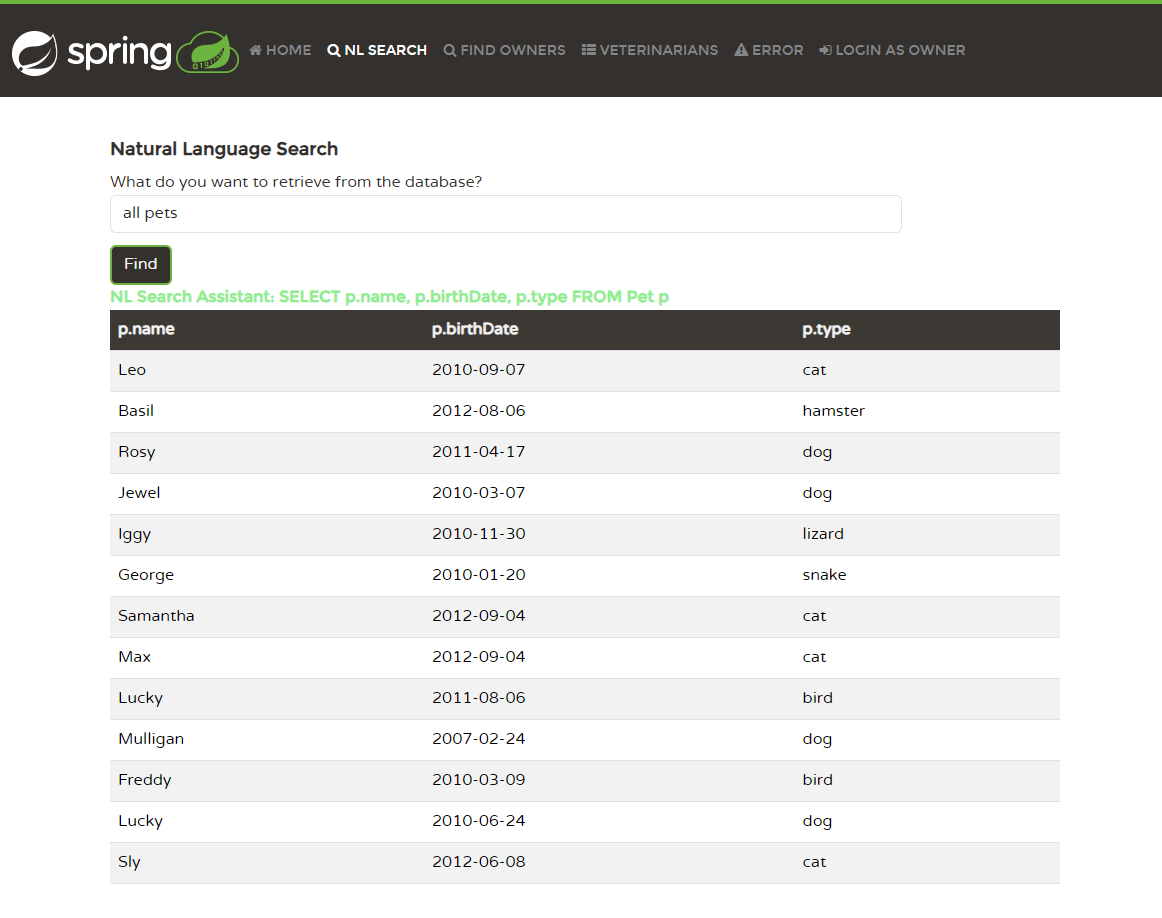
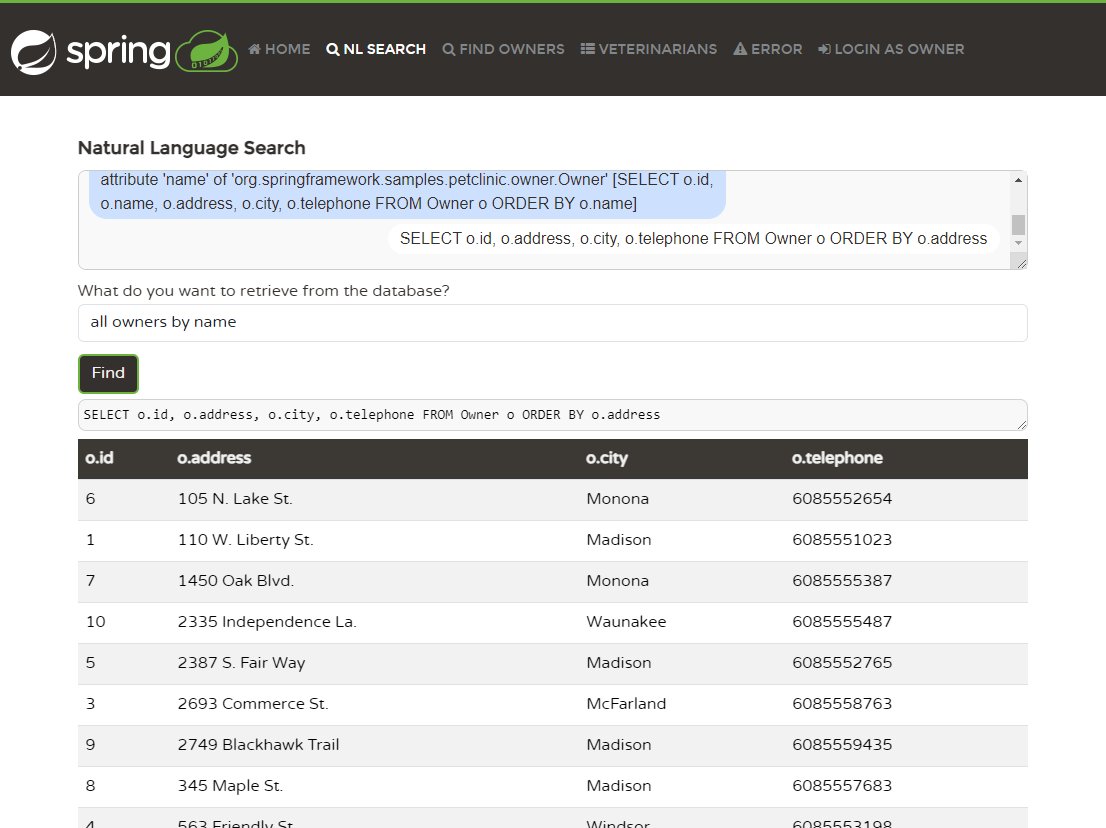
add conversation history

diff --git a/src/main/resources/templates/nl.search/nlSearchList.html b/src/main/resources/templates/nl.search/nlSearchList.html
@@ -4,15 +4,22 @@
 
 <body>
 <h2>Natural Language Search</h2>
+
 <form th:object="${nlSearch}" th:action="@{/nl-search}" method="get"
       class="form-horizontal" id="nl-search-form">
+  <div class="chat-window" id="chatWindow">
+    <th:block th:each="line, iterStat : ${nlSearch.conversationHistory}">
+      <div th:class="${iterStat.odd} ? 'chat-message user-message' : 'chat-message ai-message'">
+        [[${line}]]
+      </div>
+    </th:block>
+  </div>
   <div class="form-group">
     <div class="control-group" id="queryGroup">
       <label class="col-sm-6 control-label">What do you want to retrieve from the database? </label>
-      <div class="col-sm-10">
+      <div>
         <input class="form-control" th:field="*{userQuery}" size="30"
-               maxlength="80" /> <span class="help-inline"><div
-        th:if="${#fields.hasAnyErrors()}">
+               maxlength="2000"/> <span class="help-inline"><div th:if="${#fields.hasAnyErrors()}">
               <p th:each="err : ${#fields.allErrors()}" th:text="${err}">Error</p>
             </div></span>
       </div>
@@ -21,13 +28,16 @@
   <div class="form-group">
     <div class="col-sm-offset-2 col-sm-10">
       <button type="submit" class="btn btn-primary">Find</button>
+      <button type="button" class="btn btn-primary" id="askToFixBtn"
+              th:if="${nlSearch.errorMessage}"
+              th:attr="data-error-message=${nlSearch.errorMessage}">
+        Ask to fix
+      </button>
     </div>
   </div>
 
 </form>
-<div style="color: lightgreen;">
-  <strong>NL Search Assistant: [[${nlSearch.aiResponse}]]</strong>
-</div>
+<textarea class="ai-response-hql" readonly rows="1" th:text="${nlSearch.aiResponse}"></textarea>
 <div th:if="${nlSearch.errorMessage}" style="color: red;">
   <strong>Error: [[${nlSearch.errorMessage}]]</strong>
 </div>
@@ -43,5 +53,28 @@
   </tr>
   </tbody>
 </table>
+<script>
+  // Ask to fix the error button
+  document.getElementById('askToFixBtn').addEventListener('click', function(e) {
+    e.preventDefault();
+    var form = document.getElementById('nl-search-form');
+    form.action = '/nl-search/fix-error';
+    form.submit();
+  });
+</script>
+<script>
+  // Keep conversation window scrolled to the bottom
+  function scrollChatToBottom() {
+    var chatWindow = document.getElementById('chatWindow');
+    chatWindow.scrollTop = chatWindow.scrollHeight;
+  }
+
+  window.onload = scrollChatToBottom;
+
+  function onChatUpdate() {
+    scrollChatToBottom();
+  }
+</script>
 </body>
 </html>
+

diff --git a/src/main/resources/templates/nl.search/nlSearch.html b/src/main/resources/templates/nl.search/nlSearch.html
@@ -16,9 +16,9 @@
     <div class="form-group">
       <div class="control-group" id="queryGroup">
         <label class="col-sm-6 control-label">What do you want to retrieve from the database? </label>
-        <div class="col-sm-10">
+        <div>
           <input class="form-control" th:field="*{userQuery}" size="30"
-            maxlength="80" /> <span class="help-inline"><div
+            maxlength="2000" /> <span class="help-inline"><div
               th:if="${#fields.hasAnyErrors()}">
               <p th:each="err : ${#fields.allErrors()}" th:text="${err}">Error</p>
             </div></span>

diff --git a/src/main/resources/templates/fragments/layout.html b/src/main/resources/templates/fragments/layout.html
@@ -19,6 +19,7 @@
 
   <link th:href="@{/webjars/font-awesome/4.7.0/css/font-awesome.min.css}" rel="stylesheet">
   <link rel="stylesheet" th:href="@{/resources/css/petclinic.css}" />
+  <link rel="stylesheet" th:href="@{/resources/css/nlsearch.css}" />
 
 </head>
 

diff --git a/src/main/java/org/springframework/samples/petclinic/nl/search/OpenAiAssistant.java b/src/main/java/org/springframework/samples/petclinic/nl/search/OpenAiAssistant.java
@@ -81,6 +81,14 @@ public class OpenAiAssistant implements AiAssistant {
 	}
 
 	@Override
+	public String getHql(String userInput, String threadId) throws Exception {
+		if (threadId == null || threadId.isEmpty()) {
+			return getHql(userInput);
+		}
+		return getNewHqlFromConversationThread(userInput, threadId);
+	}
+
+	@Override
 	public String getHql(String userInput) throws Exception {
 		if (!isOk()) {
 			logger.info("OpenAI Assistant is available.");
@@ -91,12 +99,26 @@ public class OpenAiAssistant implements AiAssistant {
 			logger.error("Failed to create thread");
 			throw new AiAssistantConnectionException("Failed to create thread");
 		}
-		client.sendMessage(thread.id(), "user", userInput);
-		RunResponseDTO run = client.runMessage(thread.id(), assistantId);
+		return getNewHqlFromConversationThread(userInput, thread.id());
+	}
 
-		waitUntilRunIsFinished(client, thread, run, DELAY);
+	@Override
+	public String createThread() throws Exception {
+		ThreadResponseDTO thread = client.createThread();
+		if (thread.id() == null) {
+			logger.error("Failed to create thread");
+			throw new AiAssistantConnectionException("Failed to create thread");
+		}
+		return thread.id();
+	}
 
-		MessagesListResponseDTO allResponses = client.getMessages(thread.id());
+	private String getNewHqlFromConversationThread(String userInput, String threadId) throws Exception {
+		client.sendMessage(threadId, "user", userInput);
+		RunResponseDTO run = client.runMessage(threadId, assistantId);
+
+		waitUntilRunIsFinished(client, threadId, run, DELAY);
+
+		MessagesListResponseDTO allResponses = client.getMessages(threadId);
 		logger.info("These are all the messages and you will be billed by OpenAI for every single one of them:");
 		log(allResponses);
 		MessageResponseDTO assistantMessage = allResponses.data()
@@ -107,18 +129,18 @@ public class OpenAiAssistant implements AiAssistant {
 		return assistantMessage.content().get(0).text().value();
 	}
 
-	private static void waitUntilRunIsFinished(AssistantAIClient client, ThreadResponseDTO thread, RunResponseDTO run,
+	private static void waitUntilRunIsFinished(AssistantAIClient client, String threadId, RunResponseDTO run,
 			long DELAY) throws InterruptedException {
-		while (!isRunDone(client, thread.id(), run.id())) {
-			superviseWorkInProgress(client, thread);
+		while (!isRunDone(client, threadId, run.id())) {
+			superviseWorkInProgress(client, threadId);
 			sleep(DELAY * 1000);
 		}
 	}
 
-	private static void superviseWorkInProgress(AssistantAIClient client, ThreadResponseDTO thread) {
+	private static void superviseWorkInProgress(AssistantAIClient client, String threadId) {
 		try {
 			logger.info("Checking messages to supervise assistant's work");
-			MessagesListResponseDTO messages = client.getMessages(thread.id());
+			MessagesListResponseDTO messages = client.getMessages(threadId);
 			log(messages);
 		}
 		catch (Exception e) {

diff --git a/src/main/java/org/springframework/samples/petclinic/nl/search/NlSearchController.java b/src/main/java/org/springframework/samples/petclinic/nl/search/NlSearchController.java
@@ -14,8 +14,11 @@ import org.springframework.ui.Model;
 import org.springframework.web.bind.annotation.GetMapping;
 import org.springframework.web.bind.annotation.ModelAttribute;
 import org.springframework.web.bind.annotation.RequestParam;
+import org.springframework.web.bind.annotation.SessionAttributes;
+import org.springframework.web.bind.support.SessionStatus;
 
 @Controller
+@SessionAttributes("nlSearch")
 public class NlSearchController {
 
 	@Autowired
@@ -43,19 +46,36 @@ public class NlSearchController {
 	}
 
 	@GetMapping("/nl-search/find")
-	public String initNlSearchForm() {
+	public String initNlSearchForm(SessionStatus sessionStatus) {
+		sessionStatus.setComplete();
 		return "nl.search/nlSearch";
 	}
 
 	@GetMapping("/nl-search")
 	public String processNlSearchForm(@RequestParam(defaultValue = "1") int page, NlSearch nlSearch, Model model) {
-		nlSearch = nlSearchWithHibernate.getResults(nlSearch);
+		processNlSearchForm(nlSearch);
+		return addPaginationModel(page, model);
+	}
 
+	@GetMapping("/nl-search/fix-error")
+	public String processNlSearchFormToFixError(@RequestParam(defaultValue = "1") int page, NlSearch nlSearch,
+			Model model) {
+		String userQueryFiledOriginalValue = nlSearch.getUserQuery();
+		nlSearch
+			.setUserQuery("Please look at the database schema again and fix this error: " + nlSearch.getErrorMessage());
+		nlSearch = processNlSearchForm(nlSearch);
+		nlSearch.setUserQuery(userQueryFiledOriginalValue);
+		return addPaginationModel(page, model);
+	}
+
+	private NlSearch processNlSearchForm(NlSearch nlSearch) {
+		nlSearch.setErrorMessage(null);
+		nlSearch = nlSearchWithHibernate.getResults(nlSearch);
 		if (nlSearch.getErrorMessage() == null) {
 			List<String> columnNamesFromHql = getColumnNamesFromHql(nlSearch.getAiResponse());
 			nlSearch.setColumnNames(columnNamesFromHql);
 		}
-		return addPaginationModel(page, model);
+		return nlSearch;
 	}
 
 	private String addPaginationModel(int page, Model model) {

diff --git a/src/main/java/org/springframework/samples/petclinic/nl/search/NlSearch.java b/src/main/java/org/springframework/samples/petclinic/nl/search/NlSearch.java
@@ -1,5 +1,6 @@
 package org.springframework.samples.petclinic.nl.search;
 
+import java.util.ArrayList;
 import java.util.List;
 
 public class NlSearch {
@@ -17,6 +18,10 @@ public class NlSearch {
 	List<String> columnNames;
 
 	String errorMessage;
+
+	String threadId;
+
+	List<String> conversationHistory = new ArrayList<>();
 
 	public String getUserQuery() {
 		return userQuery;
@@ -72,6 +77,22 @@ public class NlSearch {
 
 	public void setLoggedInUserInfoMessage(String loggedInUserInfoMessage) {
 		this.loggedInUserInfoMessage = loggedInUserInfoMessage;
+	}
+
+	public String getThreadId() {
+		return threadId;
+	}
+
+	public void setThreadId(String threadId) {
+		this.threadId = threadId;
+	}
+
+	public List<String> getConversationHistory() {
+		return conversationHistory;
+	}
+
+	public void setConversationHistory(List<String> conversationHistory) {
+		this.conversationHistory = conversationHistory;
 	}
 
 }

diff --git a/src/main/java/org/springframework/samples/petclinic/nl/search/NlSearchWithHibernate.java b/src/main/java/org/springframework/samples/petclinic/nl/search/NlSearchWithHibernate.java
@@ -19,7 +19,13 @@ public class NlSearchWithHibernate {
 	public NlSearch getResults(NlSearch nlSearch) {
 		String hqlFromAssistant = null;
 		try {
-			hqlFromAssistant = aiAssistant.getHql(nlSearch.getUserQuery());
+			nlSearch.getConversationHistory().add(nlSearch.getUserQuery());
+			if (nlSearch.getThreadId() == null) {
+				String threadId = aiAssistant.createThread();
+				nlSearch.setThreadId(threadId);
+			}
+			hqlFromAssistant = aiAssistant.getHql(nlSearch.getUserQuery(), nlSearch.getThreadId());
+
 		}
 		catch (AiAssistantConnectionException e) {
 			nlSearch.setErrorMessage(
@@ -32,6 +38,7 @@ public class NlSearchWithHibernate {
 			return nlSearch;
 		}
 
+		nlSearch.getConversationHistory().add(hqlFromAssistant);
 		nlSearch.setAiResponse(hqlFromAssistant);
 
 		try {

diff --git a/src/main/java/org/springframework/samples/petclinic/nl/search/AiAssistant.java b/src/main/java/org/springframework/samples/petclinic/nl/search/AiAssistant.java
@@ -2,6 +2,10 @@ package org.springframework.samples.petclinic.nl.search;
 
 public interface AiAssistant {
 
-	public String getHql(String userInput) throws Exception;
+	String getHql(String userInput) throws Exception;
+
+	String getHql(String userInput, String threadId) throws Exception;
+
+	String createThread() throws Exception;
 
 }

diff --git a/readme.md b/readme.md
@@ -12,7 +12,11 @@ The application uses OpenAI Assistants API to translate queries into HQL.
 
 [See the presentation here](https://speakerdeck.com/michaelisvy/spring-petclinic-sample-application)
 
-## Run Petclinic locally
+## Run Secure AI Database Search locally
+
+The steps to run the application are the same as for the original Spring Petclinic application described below.
+The only difference is that you need to set the `openai.api.key` property in the `application.properties` file.
+If you don't have an OpenAI account, you can still run the app, but only the database security function will be demonstrated.
 
 Spring Petclinic is a [Spring Boot](https://spring.io/guides/gs/spring-boot) application built
 using [Maven](https://spring.io/guides/gs/maven/) or [Gradle](https://spring.io/guides/gs/gradle/). You can build a jar
